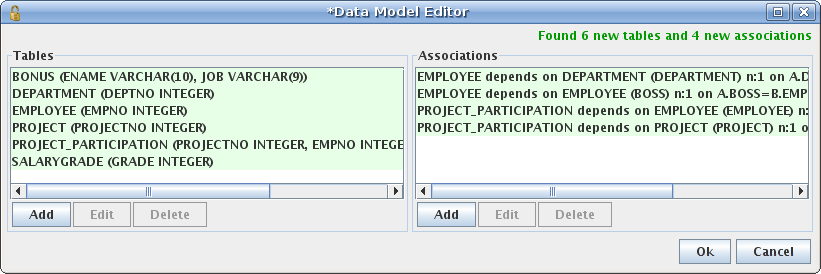
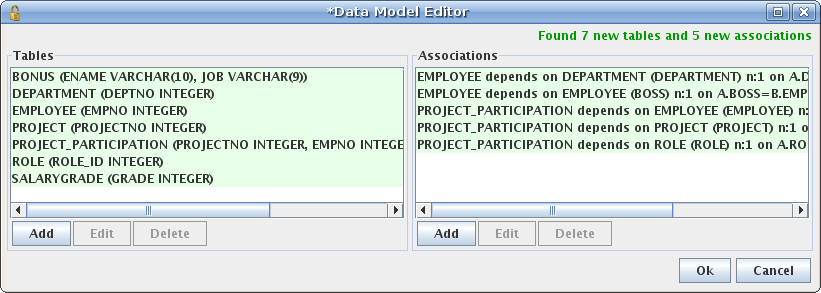
extended demo model
git-svn-id: http://svn.code.sf.net/p/jailer/code/trunk@400 3dd849cd-670e-4645-a7cd-dd197c8d0e81

Changed region(s): [[0.0, 0.1752, 1.0, 0.9927], [0.0, 0.0, 1.0, 0.146]]

diff --git a/doc/web/exporting-data.htm b/doc/web/exporting-data.htm
@@ -171,7 +171,7 @@ You may change the setting name if you like.<br>
 Click on<span style="font-style: italic;"> Connect</span><big
  style="font-style: italic;"><span style="font-family: monospace;"></span></big><span
  style="font-style: italic;">.</span>
-Jailer finds four tables and two associations:<br>
+Jailer finds six tables and four associations:<br>
             <br>
             <img src="exporting-data-Dateien/screen3.png"><br>
             <br>
@@ -239,7 +239,7 @@ Jailer has generated a file <a href="scott.sql.html"><img
  style="font-family: monospace;"><font size="4">scott.sql</font></span></big></a>
 containing <big><span style="font-family: monospace;"><font size="4">Insert</font></span></big>-statements
 for Scott, for his boss, for the president and for scott's
-department and salary-grade.<br>
+department, salary-grade and project participations.<br>
             <br>
 But why are there also statements for all other employees?<br>
             <br>
@@ -254,7 +254,9 @@ Open the <span style="font-family: monospace;">Explain.log</span>:<br>
             <br>
             <img src="exporting-data-Dateien/screen12.png"><br>
             <br>
-Scotts is Adams boss and James and Adams are both classified in the
+The data of Adams and James, for example, has been exported, because
+Scott (7788) is Adams (7876) boss and James (7900) and Adams are both
+classified in the
 same salary-grade.<br>
             <br>
             <h4>Step 4. Export employee Scott (restricted)<br>
@@ -267,32 +269,38 @@ prevents us from excluding
 the salary-grade and the bonus from export, but we don't do that
 becauses the
 resulting set would be incomplete.<br>
-            <p> To exclude
-subordinates, 'same department'-members and 'same
-salary-grade'-employees, we must disable some associations. To do so,
-define some <span style="font-style: italic;">restrictions:<br>
-            </span></p>
-            <ul>
-              <li>from DEPARTMENT to EMPLOYEE</li>
-              <li>from EMPLOYEE to EMPLOYEE (inverse-BOSS)</li>
-              <li>from SALARYGRADE to EMPLOYEE<br>
-              </li>
-            </ul>
-            <p> <br>
-            <img src="exporting-data-Dateien/screen13.png"><br>
-            <br>
-            <br>
-The <span style="font-style: italic;">restriction-condition</span> is
+            <p>On the other hand, we don't want to export all
+subordinates of an employee, or all employees who works in the same
+department as Scott.<br>
+            </p>
+            <p>To exclude
+subordinates, department-members and 'same
+salary-grade'-employees, we must <span style="font-style: italic;">restrict</span>
+some associations.<span style="font-style: italic;"><br>
+            </span><br>
+A <span style="font-style: italic;">restriction</span> is
 an extension of the associations join-condition (in
 SQL-syntax) for one direction of an association. <span
  style="font-style: italic;">disabled</span> (or <span
  style="font-style: italic;">false</span>) stands for an unsatisfiable
 condition.<br>
+            </p>
+            <p>Define restrictions:<br>
+            </p>
+            <ul>
+              <li>from DEPARTMENT to EMPLOYEE</li>
+              <li>from EMPLOYEE to EMPLOYEE (inverse-BOSS)</li>
+              <li>from SALARYGRADE to EMPLOYEE</li>
+              <li>from PROJECT to PROJECT_PARTICIPATION</li>
+              <li>from ROLE to PROJECT_PARTICIPATION</li>
+            </ul>
+            <p> <br>
+            <img src="exporting-data-Dateien/screen13.png"><br>
             <br>
             <br>
             <span style="font-style: italic;"></span>Use <span
- style="font-style: italic;">Tools-&gt;Export Data</span> again and
-look what Jailer now exports:<br>
+ style="font-style: italic;">Tools-&gt;Export Data</span> again. Jailer
+will now export only the data related to Scott.<br>
             <br>
             <table
  style="background-color: rgb(51, 102, 255); text-align: left;"
@@ -315,14 +323,14 @@ look what Jailer now exports:<br>
                   <td
  style="vertical-align: top; background-color: rgb(202, 225, 235);"
  colspan="2"><span style="font-family: monospace;">-- generated by
-Jailer at Fri May 02 12:38:33 CEST 2008&nbsp; from wisser@desktop<br>
+Jailer at Sat May 03 12:38:33 CEST 2008&nbsp; from wisser@desktop<br>
 --<br>
 -- extraction model:&nbsp; EMPLOYEE where NAME='SCOTT'
 (extractionmodel/scott.csv)<br>
 -- database URL:&nbsp;&nbsp;&nbsp;&nbsp;&nbsp;
 jdbc:db2://localhost/wisser<br>
 -- database user:&nbsp;&nbsp;&nbsp;&nbsp; scott<br>
--- exported entities: 7<br>
+-- Exported Entities: 13<br>
 --&nbsp;&nbsp;&nbsp;&nbsp;
 DEPARTMENT&nbsp;&nbsp;&nbsp;&nbsp;&nbsp;&nbsp;&nbsp;&nbsp;&nbsp;&nbsp;&nbsp;&nbsp;&nbsp;&nbsp;&nbsp;&nbsp;&nbsp;&nbsp;&nbsp;&nbsp;
 2<br>
@@ -330,29 +338,44 @@ DEPARTMENT&nbsp;&nbsp;&nbsp;&nbsp;&nbsp;&nbsp;&nbsp;&nbsp;&nbsp;&nbsp;&nbsp;&nbs
 EMPLOYEE&nbsp;&nbsp;&nbsp;&nbsp;&nbsp;&nbsp;&nbsp;&nbsp;&nbsp;&nbsp;&nbsp;&nbsp;&nbsp;&nbsp;&nbsp;&nbsp;&nbsp;&nbsp;&nbsp;&nbsp;&nbsp;&nbsp;
 3<br>
 --&nbsp;&nbsp;&nbsp;&nbsp;
+PROJECT&nbsp;&nbsp;&nbsp;&nbsp;&nbsp;&nbsp;&nbsp;&nbsp;&nbsp;&nbsp;&nbsp;&nbsp;&nbsp;&nbsp;&nbsp;&nbsp;&nbsp;&nbsp;&nbsp;&nbsp;&nbsp;&nbsp;&nbsp;
+2<br>
+--&nbsp;&nbsp;&nbsp;&nbsp;
+PROJECT_PARTICIPATION&nbsp;&nbsp;&nbsp;&nbsp;&nbsp;&nbsp;&nbsp;&nbsp;&nbsp;
+2<br>
+--&nbsp;&nbsp;&nbsp;&nbsp;
+ROLE&nbsp;&nbsp;&nbsp;&nbsp;&nbsp;&nbsp;&nbsp;&nbsp;&nbsp;&nbsp;&nbsp;&nbsp;&nbsp;&nbsp;&nbsp;&nbsp;&nbsp;&nbsp;&nbsp;&nbsp;&nbsp;&nbsp;&nbsp;&nbsp;&nbsp;&nbsp;
+2<br>
+--&nbsp;&nbsp;&nbsp;&nbsp;
 SALARYGRADE&nbsp;&nbsp;&nbsp;&nbsp;&nbsp;&nbsp;&nbsp;&nbsp;&nbsp;&nbsp;&nbsp;&nbsp;&nbsp;&nbsp;&nbsp;&nbsp;&nbsp;&nbsp;&nbsp;
 2<br>
                   <br>
                   <br>
                   <br>
-Insert into DEPARTMENT(DEPTNO, NAME, LOCATION) values (20, 'RESEARCH',
-'DALLAS'), (10, 'ACCOUNTING', 'NEW YORK');<br>
 Insert into SALARYGRADE(GRADE, LOSAL, HISAL) values (4, 2001, 3000),
 (5, 3001, 9999);<br>
-Insert
-into EMPLOYEE(EMPNO, NAME, JOB, BOSS, HIREDATE, SALARY, COMM, DEPTNO) <br>
-&nbsp; &nbsp; &nbsp; values (7839, 'KING', 'PRESIDENT', null,
-'1981-11-17', 5000.00, null,
-10);<br>
-Insert into EMPLOYEE(EMPNO, NAME, JOB, BOSS, HIREDATE, SALARY,
-COMM, DEPTNO) <br>
-&nbsp;&nbsp;&nbsp;&nbsp;&nbsp; values (7566, 'JONES', 'MANAGER', 7839,
-'1981-04-02',
-2975.00, null, 20);<br>
-Insert into EMPLOYEE(EMPNO, NAME, JOB, BOSS,
-HIREDATE, SALARY, COMM, DEPTNO)<br>
-&nbsp; &nbsp; &nbsp; values (7788, 'SCOTT', 'ANALYST', 7566,
-'1982-12-09', 3000.00, null, 20);<br>
+Insert into ROLE(ROLE_ID, DESCRIPTION) values (100, 'Developer'), (102,
+'Project manager');<br>
+Insert into PROJECT(PROJECTNO, DESCRIPTION, START_DATE, END_DATE)
+values (1001, 'Development of Novel Magnetic Suspension System',
+'2006-01-01', '2007-08-13'), (1003, 'Foundation of Quantum Technology',
+'2007-02-24', '2008-07-31');<br>
+Insert into DEPARTMENT(DEPTNO, NAME, LOCATION) values (20, 'RESEARCH',
+'DALLAS'), (10, 'ACCOUNTING', 'NEW YORK');<br>
+Insert into EMPLOYEE(EMPNO, NAME, JOB, BOSS, HIREDATE, SALARY, COMM,
+DEPTNO) values (7839, 'KING', 'PRESIDENT', null, '1981-11-17', 5000.00,
+null, 10);<br>
+Insert into EMPLOYEE(EMPNO, NAME, JOB, BOSS, HIREDATE, SALARY, COMM,
+DEPTNO) values (7566, 'JONES', 'MANAGER', 7839, '1981-04-02', 2975.00,
+null, 20);<br>
+Insert into EMPLOYEE(EMPNO, NAME, JOB, BOSS, HIREDATE, SALARY, COMM,
+DEPTNO) values (7788, 'SCOTT', 'ANALYST', 7566, '1982-12-09', 3000.00,
+null, 20);<br>
+Insert into PROJECT_PARTICIPATION(PROJECTNO, EMPNO, START_DATE,
+END_DATE, ROLE_ID) values (1003, 7566, '2007-02-24', '2008-07-31', 102);<br>
+Insert into PROJECT_PARTICIPATION(PROJECTNO, EMPNO, START_DATE,
+END_DATE, ROLE_ID) values (1001, 7788, '2006-05-15', '2006-11-01', 100);<br>
+                  <br>
                   </span></td>
                 </tr>
               </tbody>

diff --git a/doc/web/scott.sql.html b/doc/web/scott.sql.html
@@ -34,7 +34,7 @@
 jdbc:db2://localhost/wisser<br>
 -- database user:&nbsp;&nbsp;&nbsp;&nbsp; scott</span><span
  style="font-family: monospace;"><br>
--- Exported Entities: 39<br>
+-- Exported Entities: 43<br>
 --&nbsp;&nbsp;&nbsp;&nbsp;
 DEPARTMENT&nbsp;&nbsp;&nbsp;&nbsp;&nbsp;&nbsp;&nbsp;&nbsp;&nbsp;&nbsp;&nbsp;&nbsp;&nbsp;&nbsp;&nbsp;&nbsp;&nbsp;&nbsp;&nbsp;&nbsp;
 3<br>
@@ -46,24 +46,28 @@ PROJECT&nbsp;&nbsp;&nbsp;&nbsp;&nbsp;&nbsp;&nbsp;&nbsp;&nbsp;&nbsp;&nbsp;&nbsp;&
 4<br>
 --&nbsp;&nbsp;&nbsp;&nbsp;
 PROJECT_PARTICIPATION&nbsp;&nbsp;&nbsp;&nbsp;&nbsp;&nbsp;&nbsp;&nbsp;&nbsp;
-13<br>
+14<br>
+--&nbsp;&nbsp;&nbsp;&nbsp;
+ROLE&nbsp;&nbsp;&nbsp;&nbsp;&nbsp;&nbsp;&nbsp;&nbsp;&nbsp;&nbsp;&nbsp;&nbsp;&nbsp;&nbsp;&nbsp;&nbsp;&nbsp;&nbsp;&nbsp;&nbsp;&nbsp;&nbsp;&nbsp;&nbsp;&nbsp;&nbsp;
+3<br>
 --&nbsp;&nbsp;&nbsp;&nbsp;
 SALARYGRADE&nbsp;&nbsp;&nbsp;&nbsp;&nbsp;&nbsp;&nbsp;&nbsp;&nbsp;&nbsp;&nbsp;&nbsp;&nbsp;&nbsp;&nbsp;&nbsp;&nbsp;&nbsp;&nbsp;
 5<br>
       <br>
       <br>
       <br>
-Insert into SALARYGRADE(GRADE, LOSAL, HISAL) values (1, 700, 1200), (2,
-1201, 1400), (3, 1401, 2000), (4, 2001, 3000), (5, 3001, 9999);<br>
+Insert into SALARYGRADE(GRADE, LOSAL, HISAL) values (4, 2001, 3000),
+(1, 700, 1200), (5, 3001, 9999), (2, 1201, 1400), (3, 1401, 2000);<br>
+Insert into ROLE(ROLE_ID, DESCRIPTION) values (100, 'Developer'), (102,
+'Project manager'), (101, 'Researcher');<br>
 Insert into PROJECT(PROJECTNO, DESCRIPTION, START_DATE, END_DATE)
 values (1001, 'Development of Novel Magnetic Suspension System',
 '2006-01-01', '2007-08-13'), (1002, 'Research on thermofluid dynamics
 in Microdroplets', '2006-08-22', '2007-03-20'), (1003, 'Foundation of
 Quantum Technology', '2007-02-24', '2008-07-31'), (1004, 'High capacity
 optical network', '2008-01-01', null);<br>
-Insert into DEPARTMENT(DEPTNO, NAME, LOCATION) values (10,
-'ACCOUNTING', 'NEW YORK'), (20, 'RESEARCH', 'DALLAS'), (30, 'SALES',
-'CHICAGO');<br>
+Insert into DEPARTMENT(DEPTNO, NAME, LOCATION) values (20, 'RESEARCH',
+'DALLAS'), (10, 'ACCOUNTING', 'NEW YORK'), (30, 'SALES', 'CHICAGO');<br>
 Insert into EMPLOYEE(EMPNO, NAME, JOB, BOSS, HIREDATE, SALARY, COMM,
 DEPTNO) values (7839, 'KING', 'PRESIDENT', null, '1981-11-17', 5000.00,
 null, 10);<br>
@@ -73,31 +77,32 @@ null, 20), (7698, 'BLAKE', 'MANAGER', 7839, '1981-05-01', 2850.00,
 null, 30), (7782, 'CLARK', 'MANAGER', 7839, '1981-06-09', 2450.00,
 null, 10);<br>
 Insert into EMPLOYEE(EMPNO, NAME, JOB, BOSS, HIREDATE, SALARY, COMM,
-DEPTNO) values (7499, 'ALLEN', 'SALESMAN', 7698, '1981-02-20', 1600.00,
-300.00, 30), (7521, 'WARD', 'SALESMAN', 7698, '1981-02-22', 1250.00,
-500.00, 30), (7654, 'MARTIN', 'SALESMAN', 7698, '1981-09-28', 1250.00,
-1400.00, 30), (7788, 'SCOTT', 'ANALYST', 7566, '1982-12-09', 3000.00,
-null, 20), (7844, 'TURNER', 'SALESMAN', 7698, '1981-09-08', 1500.00,
-0.00, 30), (7900, 'JAMES', 'CLERK', 7698, '1981-12-03', 950.00, null,
-30), (7902, 'FORD', 'ANALYST', 7566, '1981-12-03', 3000.00, null, 20),
+DEPTNO) values (7788, 'SCOTT', 'ANALYST', 7566, '1982-12-09', 3000.00,
+null, 20), (7902, 'FORD', 'ANALYST', 7566, '1981-12-03', 3000.00, null,
+20), (7900, 'JAMES', 'CLERK', 7698, '1981-12-03', 950.00, null, 30),
+(7499, 'ALLEN', 'SALESMAN', 7698, '1981-02-20', 1600.00, 300.00, 30),
+(7521, 'WARD', 'SALESMAN', 7698, '1981-02-22', 1250.00, 500.00, 30),
+(7654, 'MARTIN', 'SALESMAN', 7698, '1981-09-28', 1250.00, 1400.00, 30),
+(7844, 'TURNER', 'SALESMAN', 7698, '1981-09-08', 1500.00, 0.00, 30),
 (7934, 'MILLER', 'CLERK', 7782, '1982-01-23', 1300.00, null, 10);<br>
 Insert into PROJECT_PARTICIPATION(PROJECTNO, EMPNO, START_DATE,
-END_DATE) values (1002, 7782, '2006-08-22', '2007-03-20'), (1003, 7566,
-'2007-02-24', '2008-07-31');<br>
+END_DATE, ROLE_ID) values (1003, 7566, '2007-02-24', '2008-07-31',
+102), (1002, 7782, '2006-08-22', '2007-03-20', 101);<br>
 Insert into EMPLOYEE(EMPNO, NAME, JOB, BOSS, HIREDATE, SALARY, COMM,
-DEPTNO) values (7369, 'SMITH', 'CLERK', 7902, '1980-12-17', 800.00,
-null, 20), (7876, 'ADAMS', 'CLERK', 7788, '1983-01-12', 1100.00, null,
+DEPTNO) values (7876, 'ADAMS', 'CLERK', 7788, '1983-01-12', 1100.00,
+null, 20), (7369, 'SMITH', 'CLERK', 7902, '1980-12-17', 800.00, null,
 20);<br>
 Insert into PROJECT_PARTICIPATION(PROJECTNO, EMPNO, START_DATE,
-END_DATE) values (1001, 7788, '2006-05-15', '2006-11-01'), (1001, 7902,
-'2006-01-01', '2006-12-30'), (1002, 7934, '2007-01-01', '2007-03-20'),
-(1003, 7900, '2007-02-24', '2007-01-31'), (1004, 7499, '2008-01-01',
-null), (1004, 7521, '2008-05-01', null), (1004, 7654, '2008-04-15',
-null), (1004, 7844, '2008-02-01', null), (1004, 7900, '2008-03-01',
-'2008-04-01');<br>
+END_DATE, ROLE_ID) values (1001, 7788, '2006-05-15', '2006-11-01',
+100), (1001, 7902, '2006-01-01', '2006-12-30', 102), (1002, 7934,
+'2007-01-01', '2007-03-20', 101), (1003, 7900, '2007-02-24',
+'2007-01-31', 101), (1004, 7499, '2008-01-01', null, 102), (1004, 7521,
+'2008-05-01', null, 101), (1004, 7654, '2008-04-15', null, 101), (1004,
+7844, '2008-02-01', null, 101), (1004, 7900, '2008-03-01',
+'2008-04-01', 101), (1004, 7900, '2008-05-20', null, 101);<br>
 Insert into PROJECT_PARTICIPATION(PROJECTNO, EMPNO, START_DATE,
-END_DATE) values (1001, 7369, '2006-01-01', '2007-08-13'), (1002, 7876,
-'2006-08-22', '2007-03-20');<br>
+END_DATE, ROLE_ID) values (1002, 7876, '2006-08-22', '2007-03-20',
+102), (1001, 7369, '2006-01-01', '2007-08-13', 100);<br>
       <br>
       </span></td>
     </tr>
